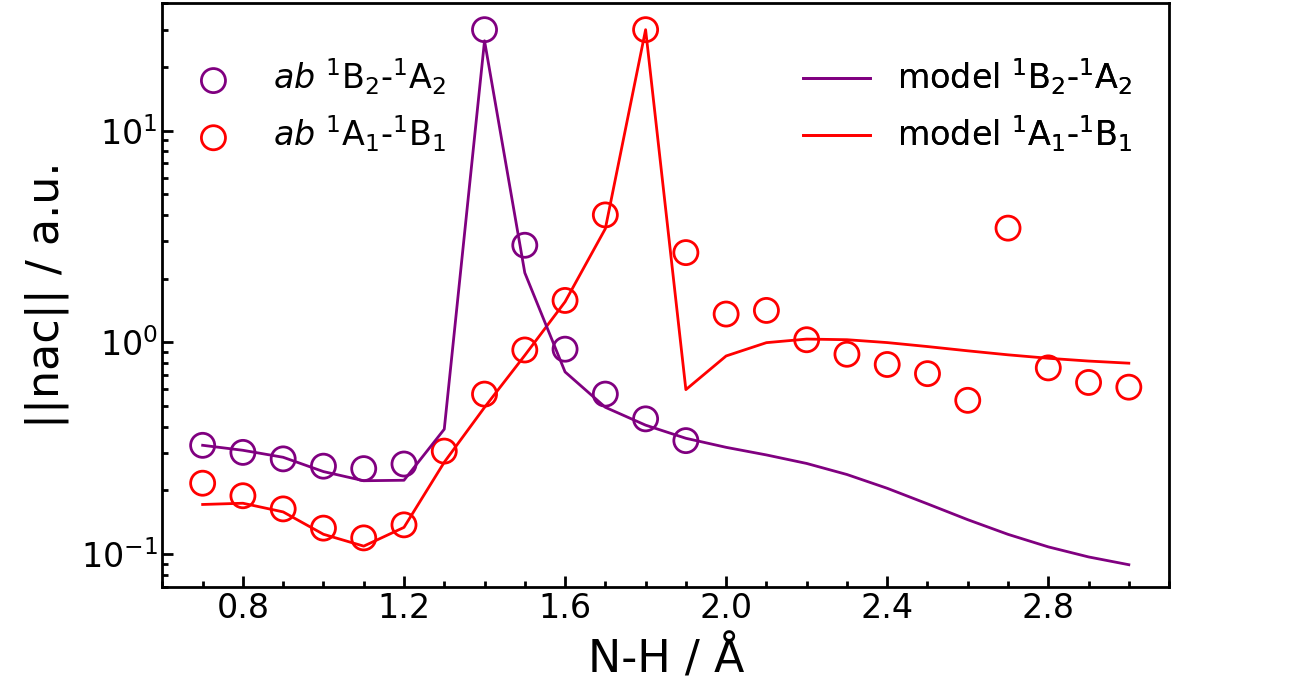
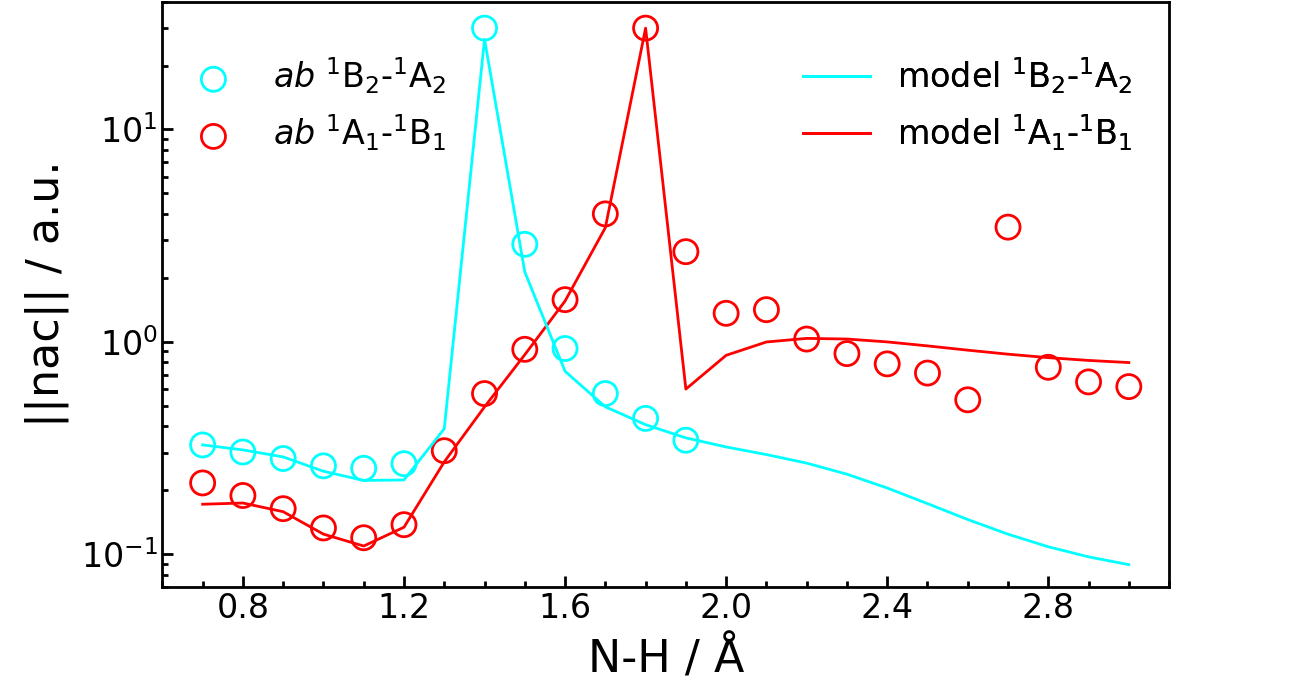
change nac colors to red, purple, cyan

diff --git a/diabatz/analysis/fast/plot_nac.py b/diabatz/analysis/fast/plot_nac.py
@@ -28,8 +28,8 @@ scatter = ax.scatter(NH, norm12_abinitio, color="red"   , label="$\it{ab}$ " + "
 line,   = ax.plot   (NH, norm12_diabatz , color="red"   , label="model "     + "$^1$A$_1$-$^1$B$_1$", linewidth=2)
 scatters.append(scatter)
 lines   .append(line   )
-scatter = ax.scatter(NH, norm34_abinitio, color="purple", label="$\it{ab}$ " + "$^1$B$_2$-$^1$A$_2$", s=300, linewidth=2, facecolors="none")
-line,   = ax.plot   (NH, norm34_diabatz , color="purple", label="model "     + "$^1$B$_2$-$^1$A$_2$", linewidth=2)
+scatter = ax.scatter(NH, norm34_abinitio, color="cyan", label="$\it{ab}$ " + "$^1$B$_2$-$^1$A$_2$", s=300, linewidth=2, facecolors="none")
+line,   = ax.plot   (NH, norm34_diabatz , color="cyan", label="model "     + "$^1$B$_2$-$^1$A$_2$", linewidth=2)
 scatters.append(scatter)
 lines   .append(line   )
 

diff --git a/diabatz/analysis/min-B1_min-A1/plot_nac.py b/diabatz/analysis/min-B1_min-A1/plot_nac.py
@@ -12,8 +12,8 @@ norm_diabatz [np.where(norm_diabatz  > 20.0)] = 20.0
 
 fig, ax = plt.subplots(1, 1)
 
-scatter = ax.scatter(COONH2, norm_abinitio, color="orange", label="$\it{ab}$ " + "$^1$B$_1$-$^1$B$_2$", s=300, linewidth=2, facecolors="none")
-line,   = ax.plot   (COONH2, norm_diabatz , color="orange", label="model "     + "$^1$B$_1$-$^1$B$_2$", linewidth=2)
+scatter = ax.scatter(COONH2, norm_abinitio, color="purple", label="$\it{ab}$ " + "$^1$B$_1$-$^1$B$_2$", s=300, linewidth=2, facecolors="none")
+line,   = ax.plot   (COONH2, norm_diabatz , color="purple", label="model "     + "$^1$B$_1$-$^1$B$_2$", linewidth=2)
 
 ax.set_yscale("log")
 

diff --git a/diabatz/analysis/fast/plot_nac_error.py b/diabatz/analysis/fast/plot_nac_error.py
@@ -26,7 +26,7 @@ fig, ax = plt.subplots()
 lines = []
 line, = ax.plot(NH, norm12_error, color="red"   , label="$^1$A$_1$-$^1$B$_1$", linewidth=2)
 lines.append(line)
-line, = ax.plot(NH, norm34_error, color="purple", label="$^1$B$_2$-$^1$A$_2$", linewidth=2)
+line, = ax.plot(NH, norm34_error, color="cyan", label="$^1$B$_2$-$^1$A$_2$", linewidth=2)
 lines.append(line)
 
 ax.set_xlabel("N-H / Å"       , fontsize=32, labelpad=8)

diff --git a/diabatz/analysis/min-B1_min-A1/plot_nac_error.py b/diabatz/analysis/min-B1_min-A1/plot_nac_error.py
@@ -14,7 +14,7 @@ norm_error = norm_diabatz - norm_abinitio
 
 fig, ax = plt.subplots()
 
-line, = ax.plot(COONH2, norm_error, color="orange", label="$^1$B$_1$-$^1$B$_2$", linewidth=2)
+line, = ax.plot(COONH2, norm_error, color="purple", label="$^1$B$_1$-$^1$B$_2$", linewidth=2)
 
 ax.set_xlabel("C1 out of NH$_2$ plane / °", fontsize=32, labelpad=8 )
 ax.set_ylabel("||nac|| error / a.u."      , fontsize=32, labelpad=8)
